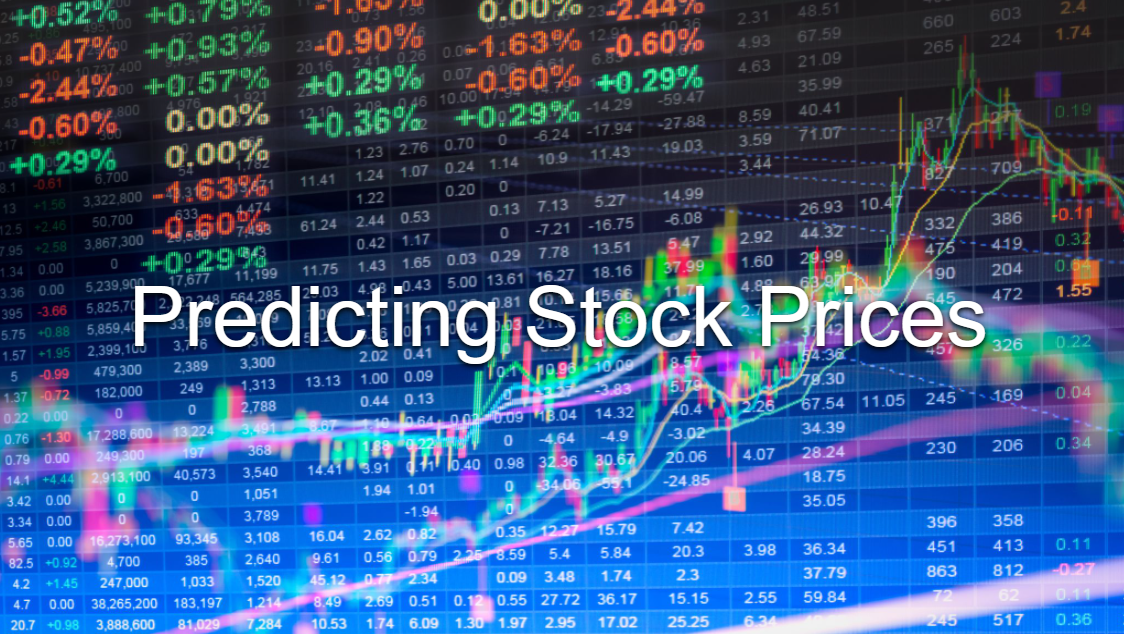
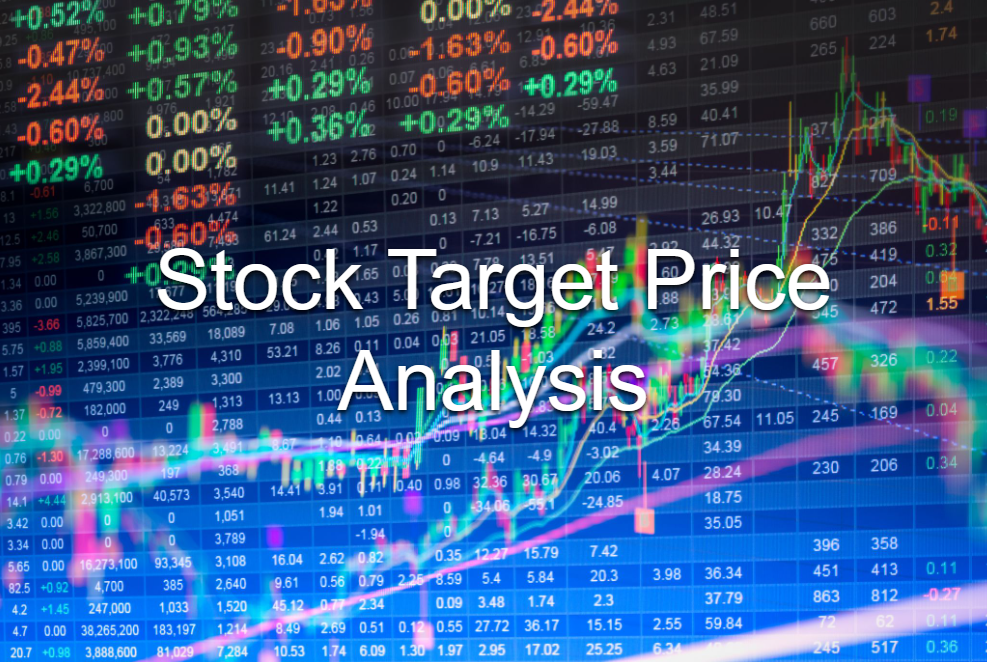
Update stocks page

diff --git a/tabs/stocks.html b/tabs/stocks.html
@@ -36,17 +36,28 @@
 
         <section class="intro">
             <h1 class="section__title section__title--intro">
-                <strong>Predicting Stock Prices</strong>
+                <strong>Current and Target Stock Prices</strong>
             </h1>
-            <p class="section__subtitle section__subtitle--intro">Python</p>
+            <p class="section__subtitle section__subtitle--intro">Repository:
+            <a href="https://github.com/boicenathan/stocks_analysis">
+                        <i class="fab fa-github"></i></a></p>
             <img src="../img/cloud.jpg" alt="" class="intro__img">
         </section>
         
         <div class="portfolio-item-individual">
-            <p>A script to predict stock prices.</p>
+            <p><strong>About</strong><p>
             <!-- un comment for image <img src="../img/comp.jpg" alt=""> -->
-            <p>Coming Soon!</p>
-            <p></p>
+            <p>I've always been interested in the stock market and how it works, but like many, just don't have the time to put into collecting and analyzing all the info.
+            A very simple strategy can be relying on analysts target price predictions.  Now this works just fine for passive investors who like to set it and forget it and set
+            an alert when the stock hits the target price.  But there are thousands of stocks out there, which ones are the best or where should I start looking?  The solution, 
+            the program I created that will do this analysis for any list of ticker symbols provided.</p>
+            <p><strong>Technical Limitations and Conditions</strong><p>
+            <p>The API used is the Yahoo Finance API by Api Dojo and can be found <a href= "https://rapidapi.com/apidojo/api/yahoo-finance1/">here.</a>
+            I use the basic plan which allows for 500 requests per month and 5 requests per second.  Because of this I take the first 500 tickers in the list sorted in descending
+            order by market cap, and if the time between requests is less than .2 seconds the program will wait the difference.</p>
+            <p>A condition I added was to filter the list of tickers by the last close price to tickers with a price between $10 and $5,000.  This was added to help eliminate stocks
+            that are too high or low based on the users preference.  For me, I'm not interested in "penny" stocks or very expensive stocks like Berkshire Hathaway.</p>
+            <p>For more details visit the readme on the Github repository.</p>
         </div>
         
         

diff --git a/tabs/data_transformation.html b/tabs/data_transformation.html
@@ -45,6 +45,7 @@
         </section>
         
         <div class="portfolio-item-individual">
+            <p><strong>About</strong></p>
             <p>For work my team and I analyze a large amount of Trello data.  If you're not familiar with Trello it 
             is a workflow collaboration tool that is used as a todo list to track tasks and their progress.  For more information
             you can check out their website <a href= "https://trello.com/en-US">here</a> for more info.</p>

diff --git a/index.html b/index.html
@@ -100,7 +100,7 @@
                     <img src="img/game1.png" alt="" class="portfolio__img">
                 </a>
                 <!-- Portfolio Item 3 -->
-                <a href="tabs/price_tracker.html" class="portfolio__item">
+                <a href="tabs/stocks.html" class="portfolio__item">
                     <img src="img/stocks1.PNG" alt="" class="portfolio__img">
                 </a>
             </div>
